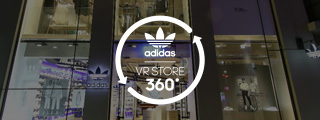
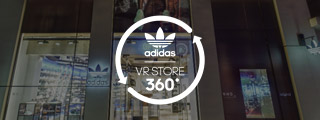
* 아디다스 웹 GNB에 VR스토어 배너 교체 * 리복 브랜드 조쿠러너에 영상 삽입

diff --git a/web/html/reebok/event/about/zoku.html b/web/html/reebok/event/about/zoku.html
@@ -574,7 +574,7 @@
                     <h2>zoku runner</h2>
                     <p class="desc_eng">ultraknit</p>
                     <!-- <p class="desc_eng2">초보러너에게도 즐겁고 가벼운 러닝</p> -->
-                    <a href="javascript:void(0)" id="ready_v" class="play-video" data-video-id="Pbax9W2Zw-M"></a>
+                    <a href="javascript:void(0)" id="ready_v" class="play-video" data-video-id="Piv_0klo9qo"></a>
                   </div>
                   <div class="video_bg" id="video-background"></div>
                 </div>
@@ -918,14 +918,9 @@
 
                   // video
             			$('.play-video').bind('click',function(){
-                            //영상대기
-                            $('#ready_v').click(function(){
-                                alert('영상이 준비중입니다');
-                                return false;
-                            });
-            	      //var videoId = $(this).attr('data-video-id');
-      							// viewVideo(videoId);
-      							// return false;
+                            var videoId = $(this).attr('data-video-id');
+                            viewVideo(videoId);
+                            return false;
             			});
 
             			function viewVideo(videoId){

diff --git a/mobile/html/reebok/event/aboutus/zoku.html b/mobile/html/reebok/event/aboutus/zoku.html
@@ -623,7 +623,7 @@
 							<h2>zoku<br>runner</h2>
 							<p class="desc">ultraknit</p>
 
-							<a href="javascript:void(0)" class="video-btn" data-video-id="x_gJuyMY0cs"></a>
+							<a href="javascript:void(0)" class="video-btn" data-video-id="Piv_0klo9qo"></a>
 						</div>
 						<div class="video_layer">
 							<a href="javascript:void(0)" class="close"></a>
